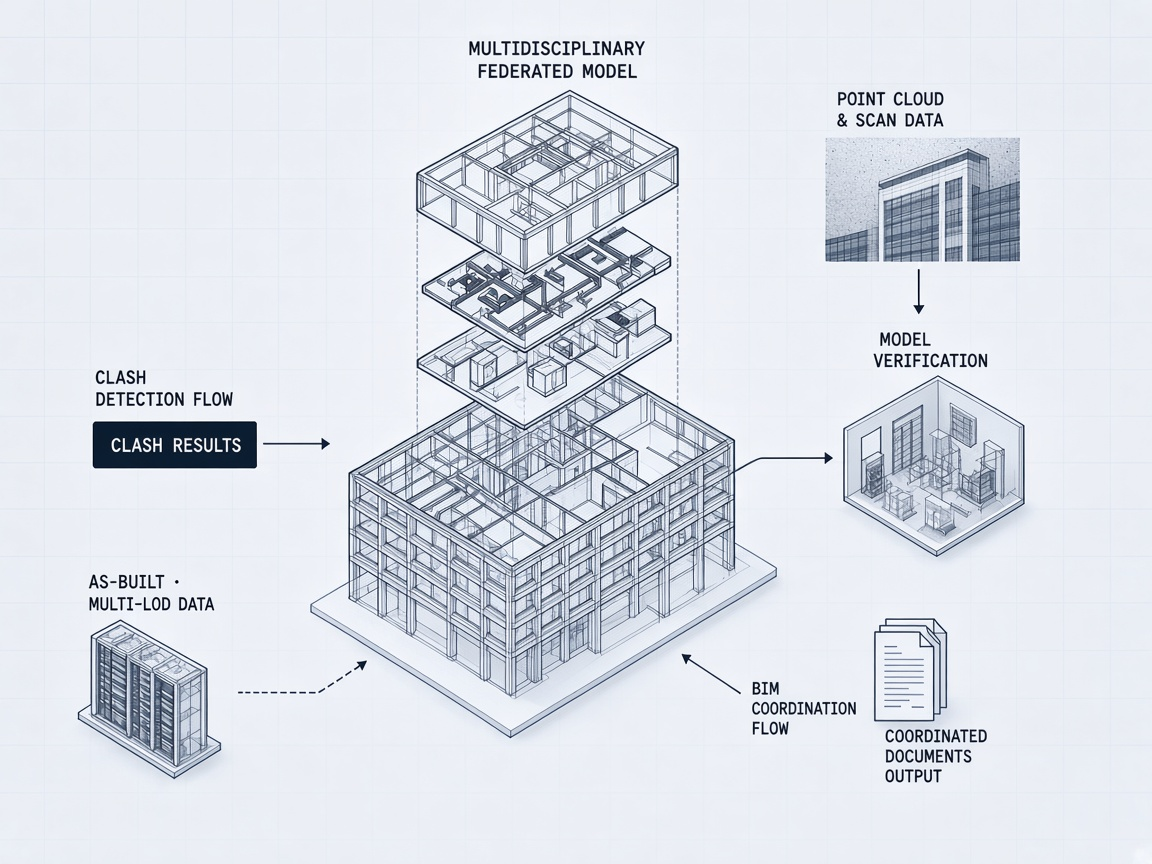
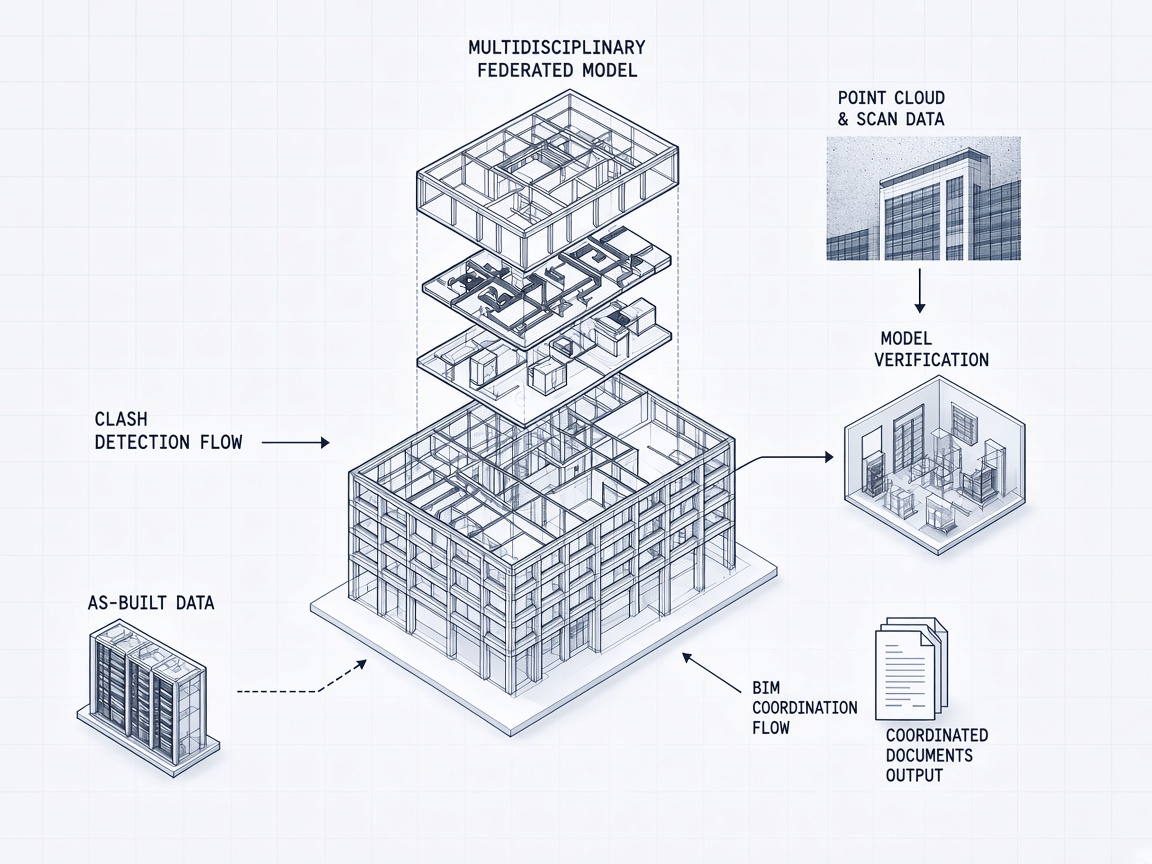
Balance diagram callouts and remove residual LOD labels
Restyle clash callouts like the rest of the diagram, drop LOD
wording from the as-built label and page copy.

diff --git a/src/app/page.tsx b/src/app/page.tsx
@@ -27,7 +27,7 @@ const services = [
   {
     code: "SVC-04",
     title: "BIM implementation",
-    text: "Define BEP, LOD matrices, naming and responsibilities—then coach project teams until the workflow holds without constant oversight.",
+    text: "Define BEP, detail matrices, naming and responsibilities—then coach project teams until the workflow holds without constant oversight.",
     points: ["BEP & project standards", "Role / RACI maps", "Pilot project coaching"],
   },
 ];
@@ -39,7 +39,7 @@ const steps = [
   },
   {
     title: "Specify",
-    text: "Set LOD, parameters, CDE folders and clash tolerances for the project type.",
+    text: "Set detail levels, parameters, CDE folders and clash tolerances for the project type.",
   },
   {
     title: "Operate",
@@ -124,7 +124,7 @@ export default function Home() {
               </Reveal>
               <Reveal delayMs={280}>
                 <ul className="mt-7 flex flex-wrap gap-x-5 gap-y-2 border-t border-border pt-5 font-mono text-xs text-steel">
-                  <li>LOD / LOI alignment</li>
+                  <li>Detail-level alignment</li>
                   <li>Clash detection</li>
                   <li>Scan to BIM</li>
                   <li>IFC exchange</li>
